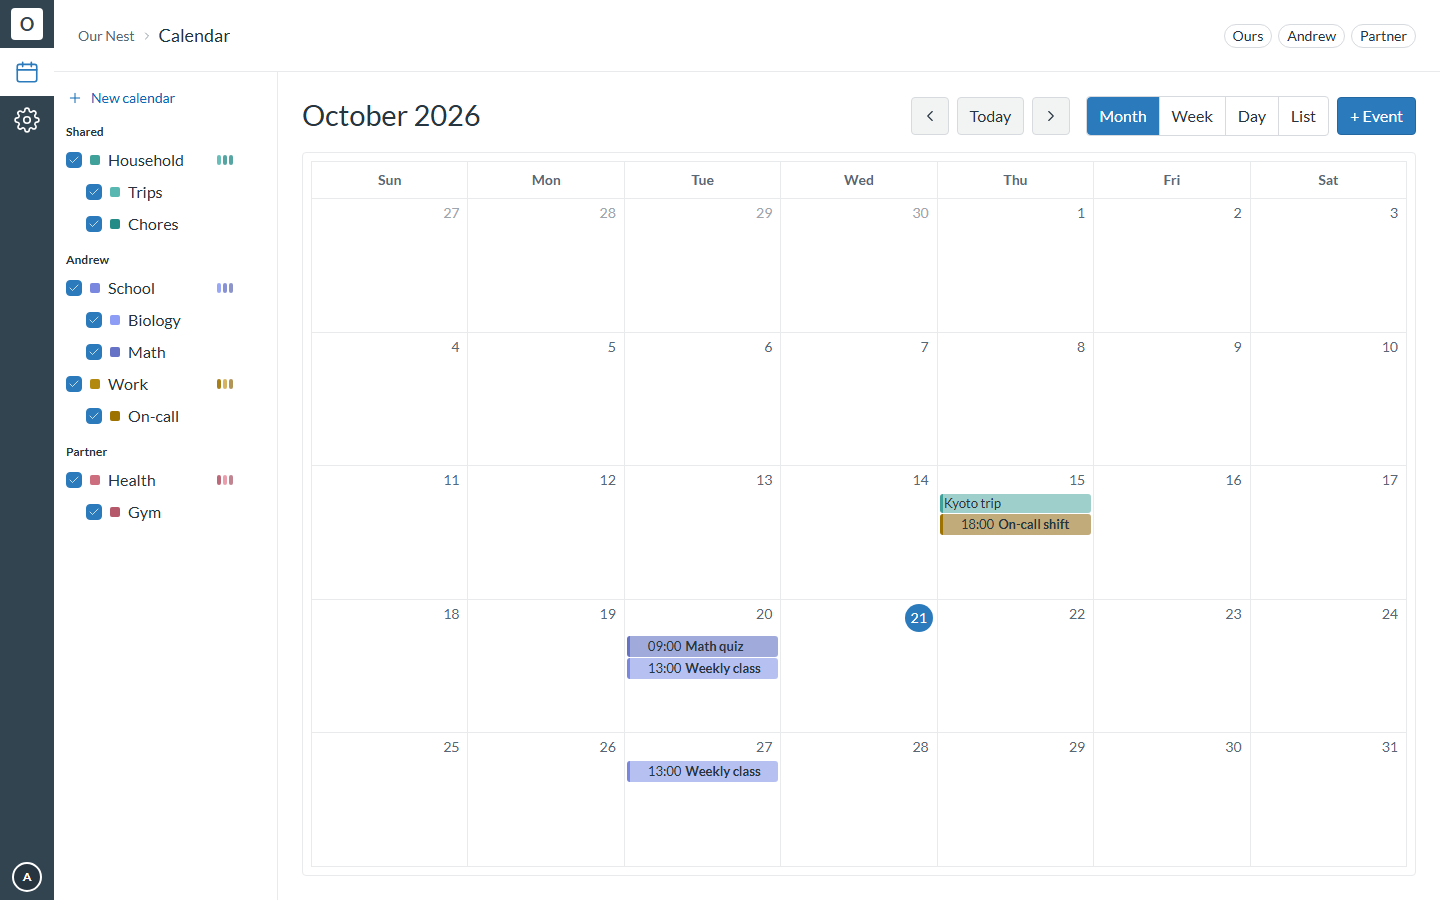
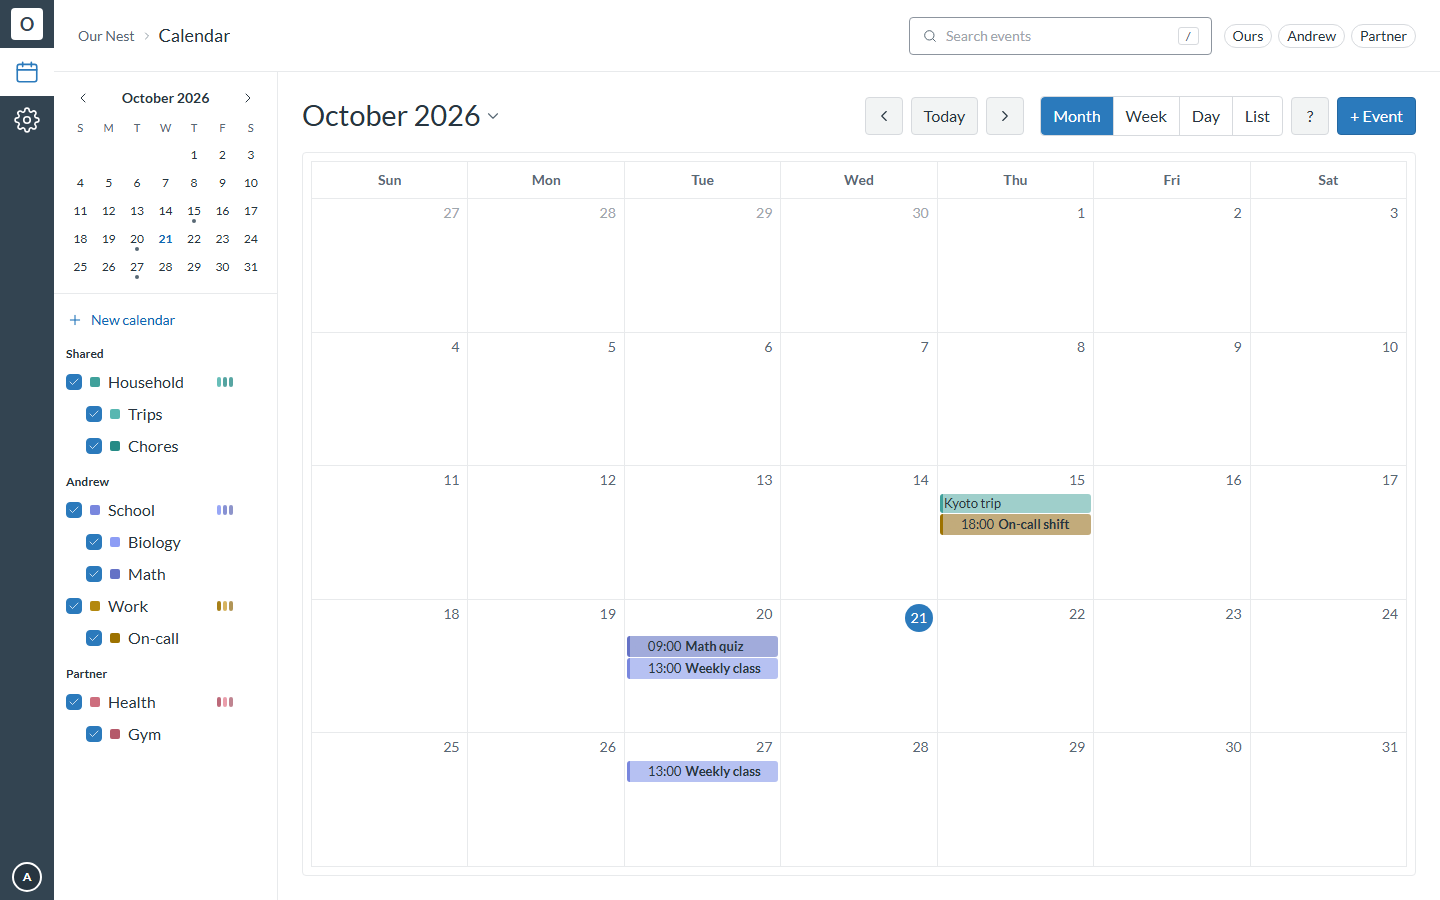
docs: v0.1.0 daily-driver parity release notes and screenshots
- README/CHANGELOG describe the unreleased v0.1.0 build: details popover,
  quick create, undo, search, preferences, shortcuts, mini-month, remembered
  view and grid polish. No release is claimed (nothing has shipped).
- Refresh docs/screenshots and add quick-create, event-details and search captures.
- Fix preference mutation races: apply the canonical PATCH response instead of
  refetching, and ignore out-of-order responses.
- Make e2e specs independent of suite order (self-seeded probe event for the
  Delete/undo shortcut test, Kyoto search target, hydration waits).
- Verification: lint/typecheck green; Vitest 23 files / 124 tests; full
  Playwright 95 passed (screenshot spec skipped by default); screenshot capture
  7 passed; viewport matrix and keyboard flows covered by the e2e suites.

diff --git a/lib/query/preferences.ts b/lib/query/preferences.ts
@@ -1,6 +1,7 @@
 "use client";
 
 import { useMutation, useQuery, useQueryClient } from "@tanstack/react-query";
+import { useRef } from "react";
 import type { UserPreferences } from "@/lib/services/preferences";
 
 interface ApiErrorBody {
@@ -33,6 +34,10 @@ export function usePreferences(initialData: UserPreferences): UserPreferences {
 
 export function useUpdatePreferences() {
   const queryClient = useQueryClient();
+  // Rapid toggles overlap: responses can arrive out of order, and only the most
+  // recently issued patch may overwrite the optimistic cache.
+  const latestIssued = useRef(0);
+
   return useMutation({
     mutationFn: (patch: Partial<UserPreferences>) =>
       requestJson<{ preferences: UserPreferences }>("/api/settings/preferences", {
@@ -41,20 +46,26 @@ export function useUpdatePreferences() {
         body: JSON.stringify(patch),
       }),
     onMutate: async (patch) => {
+      latestIssued.current += 1;
+      const sequence = latestIssued.current;
       await queryClient.cancelQueries({ queryKey: preferencesKey });
       const previous = queryClient.getQueryData<UserPreferences>(preferencesKey);
       if (previous) {
         queryClient.setQueryData<UserPreferences>(preferencesKey, { ...previous, ...patch });
       }
-      return { previous };
+      return { previous, sequence };
     },
     onError: (_error, _patch, context) => {
       if (context?.previous) {
         queryClient.setQueryData(preferencesKey, context.previous);
       }
     },
-    onSettled: () => {
-      void queryClient.invalidateQueries({ queryKey: preferencesKey });
+    // The response is the canonical row; applying it instead of refetching keeps
+    // a rapid second toggle from being overwritten by an in-flight GET.
+    onSuccess: (payload, _patch, context) => {
+      if (context?.sequence === latestIssued.current) {
+        queryClient.setQueryData<UserPreferences>(preferencesKey, payload.preferences);
+      }
     },
   });
 }

diff --git a/tests/e2e/preferences.spec.ts b/tests/e2e/preferences.spec.ts
@@ -23,6 +23,7 @@ test.afterEach(async ({ page }) => {
 
 test("time format changes the grid and survives reload", async ({ page }) => {
   await page.goto("/settings#calendar");
+  await page.waitForLoadState("networkidle");
   await page.getByRole("button", { name: "12-hour" }).click();
   await expect(page.getByText(/preferences updated/i)).toBeVisible();
 
@@ -37,6 +38,7 @@ test("time format changes the grid and survives reload", async ({ page }) => {
 
 test("the default view select persists", async ({ page }) => {
   await page.goto("/settings#calendar");
+  await page.waitForLoadState("networkidle");
   await page.getByLabel("Default view").selectOption("timeGridWeek");
   await expect(page.getByText(/preferences updated/i)).toBeVisible();
 
@@ -46,6 +48,7 @@ test("the default view select persists", async ({ page }) => {
 
 test("the calendar card is reachable from the settings sub-nav", async ({ page }) => {
   await page.goto("/settings");
+  await page.waitForLoadState("networkidle");
   const nav = page.getByRole("navigation", { name: "Settings sections" });
   await nav.getByRole("link", { name: "Calendar" }).click();
   await expect(page.getByRole("heading", { name: "Calendar" })).toBeVisible();
@@ -54,8 +57,12 @@ test("the calendar card is reachable from the settings sub-nav", async ({ page }
 
 test("week numbers and shortcuts toggles persist", async ({ page }) => {
   await page.goto("/settings#calendar");
+  // Wait for hydration before driving controlled Radix checkboxes.
+  await page.waitForLoadState("networkidle");
   await page.getByLabel("Week numbers").check();
+  await expect(page.getByLabel("Week numbers")).toBeChecked();
   await page.getByLabel("Keyboard shortcuts").uncheck();
+  await expect(page.getByLabel("Keyboard shortcuts")).not.toBeChecked();
 
   await page.reload();
   await expect(page.getByLabel("Week numbers")).toBeChecked();

diff --git a/tests/e2e/shortcuts.spec.ts b/tests/e2e/shortcuts.spec.ts
@@ -46,22 +46,39 @@ test("the toolbar button opens the shortcut sheet too", async ({ page }) => {
 });
 
 test("z is undo, but Delete removes the selected event", async ({ page }) => {
-  await page.getByText("Math quiz").click();
+  const start = new Date();
+  start.setHours(15, 0, 0, 0);
+  const created = await page.request.post("/api/events", {
+    data: {
+      calendarId: fixtures.calendars.math,
+      title: "Shortcut probe",
+      allDay: false,
+      startAt: start.getTime(),
+      endAt: start.getTime() + 60 * 60 * 1000,
+    },
+  });
+  expect(created.ok()).toBeTruthy();
+  await page.reload();
+  await page.getByRole("button", { name: "List", exact: true }).click();
+
+  await page.getByText("Shortcut probe").click();
   await page.keyboard.press("Escape");
   await page.keyboard.press("Delete");
-  await expect(page.getByText("Math quiz")).toHaveCount(0);
+  await expect(page.getByText("Shortcut probe")).toHaveCount(0);
 
   // The optimistic removal lands before the mutation's undo entry exists.
   await expect(
     page.locator("[data-sonner-toast]", { hasText: "Event deleted" }),
   ).toBeVisible();
   await page.keyboard.press("z");
-  await expect(page.getByText("Math quiz")).toBeVisible();
+  await expect(page.getByText("Shortcut probe")).toBeVisible();
 });
 
 test("the settings toggle disables single-key shortcuts", async ({ page }) => {
   await page.goto("/settings#calendar");
+  await page.waitForLoadState("networkidle");
   await page.getByRole("checkbox", { name: /Keyboard shortcuts/ }).uncheck();
+  await expect(page.getByRole("checkbox", { name: /Keyboard shortcuts/ })).not.toBeChecked();
 
   await page.goto("/");
   await page.keyboard.press("w");

diff --git a/tests/e2e/screenshot.spec.ts b/tests/e2e/screenshot.spec.ts
@@ -35,6 +35,36 @@ test.describe("desktop screenshots", () => {
     await page.screenshot({ path: "docs/screenshots/calendar-desktop.png" });
   });
 
+  test("quick create bubble", async ({ page }) => {
+    await signIn(page, ANDREW, fixtures.password);
+    const now = new Date();
+    const day = `${now.getFullYear()}-${String(now.getMonth() + 1).padStart(2, "0")}-${String(
+      Math.min(now.getDate() + 3, 28),
+    ).padStart(2, "0")}`;
+    await page.locator(`[data-date="${day}"]`).click({ position: { x: 8, y: 8 } });
+    await expect(page.getByLabel("Title")).toBeFocused();
+    await page.getByLabel("Title").fill("Dinner with Sam");
+    await settle(page);
+    await page.screenshot({ path: "docs/screenshots/quick-create.png" });
+    await page.keyboard.press("Escape");
+  });
+
+  test("event details", async ({ page }) => {
+    await signIn(page, ANDREW, fixtures.password);
+    await page.getByText("Weekly class").first().click();
+    await expect(page.getByRole("dialog")).toBeVisible();
+    await settle(page);
+    await page.screenshot({ path: "docs/screenshots/event-details.png" });
+  });
+
+  test("search results", async ({ page }) => {
+    await signIn(page, ANDREW, fixtures.password);
+    await page.getByLabel("Search events").first().fill("kyo");
+    await expect(page.getByRole("option", { name: /Kyoto trip/ })).toBeVisible();
+    await settle(page);
+    await page.screenshot({ path: "docs/screenshots/search.png" });
+  });
+
   test("settings", async ({ page }) => {
     await signIn(page, ANDREW, fixtures.password);
     await page.goto("/settings");

diff --git a/tests/e2e/search.spec.ts b/tests/e2e/search.spec.ts
@@ -25,11 +25,11 @@ test("slash focuses search and Escape closes the results", async ({ page }) => {
   const search = page.getByLabel("Search events").first();
   await expect(search).toBeFocused();
 
-  await search.fill("math");
-  await expect(page.getByRole("option", { name: /Math quiz/ })).toBeVisible();
+  await search.fill("kyoto");
+  await expect(page.getByRole("option", { name: /Kyoto trip/ })).toBeVisible();
 
   await page.keyboard.press("Escape");
-  await expect(page.getByRole("option", { name: /Math quiz/ })).toHaveCount(0);
+  await expect(page.getByRole("option", { name: /Kyoto trip/ })).toHaveCount(0);
 });
 
 test("short query shows the hint, not an empty box", async ({ page }) => {

diff --git a/README.md b/README.md
@@ -11,15 +11,38 @@ language of Canvas LMS: a dark global rail, a breadcrumb bar, and a course-style
 navigation panel — Lato type, Canvas blue, and 3–6px radii throughout.
 
 The calendar borrows Google Calendar's model — several colour-coded calendars,
-per-calendar visibility, click-and-drag events — and adds a **two-level
-hierarchy**: sub-calendars render in shades of their parent's colour, so
-"School" reads as one family while "Math" and "Biology" stay distinguishable.
+per-calendar visibility, click-and-drag events, and the daily loops people
+already know: click a day to quick-create, click an event for details, `/` to
+search, `z` to undo — and adds a **two-level hierarchy**: sub-calendars render in
+shades of their parent's colour, so "School" reads as one family while "Math" and
+"Biology" stay distinguishable.
 
 One shared household, two accounts, no public sign-up. Everything is visible to
 both; a per-calendar **view-only** flag protects a calendar its owner would
 rather not have edited.
 
 ![Nailong Planner month view](docs/screenshots/calendar-desktop.png)
+
+<details>
+<summary>Quick create (day click, range drag or Shift+C)</summary>
+
+![Quick create bubble](docs/screenshots/quick-create.png)
+
+</details>
+
+<details>
+<summary>Event details</summary>
+
+![Event details popover](docs/screenshots/event-details.png)
+
+</details>
+
+<details>
+<summary>Search</summary>
+
+![Search results](docs/screenshots/search.png)
+
+</details>
 
 <details>
 <summary>Settings page</summary>
@@ -29,9 +52,9 @@ rather not have edited.
 </details>
 
 <details>
-<summary>Phone (month view)</summary>
+<summary>Phone (agenda view — the Auto default)</summary>
 
-![Nailong Planner phone month view](docs/screenshots/calendar-mobile.png)
+![Nailong Planner phone agenda view](docs/screenshots/calendar-mobile.png)
 
 </details>
 
@@ -48,6 +71,23 @@ rather not have edited.
 
 ## Features
 
+- **Google-Calendar-shaped daily loops** — a day/slot click, a range drag or
+  `Shift+C` opens a quick-create bubble (Enter saves, "More options" escalates to
+  the full editor); clicking an event opens anchored details with its repeat
+  summary, location link and duplicate action; `/` searches the whole household
+  and jumps the grid to the result.
+- **Undoable edits** — deletes, moves, resizes and creates render optimistically
+  and are undoable from the toast or with `z` / `Ctrl+Z`; a failed drag snaps
+  back.
+- **Per-user preferences** — 12/24-hour time, default view (`Auto` = agenda on
+  phones, month on desktop), week numbers, keyboard shortcuts and default event
+  calendar, applied immediately from Settings → Calendar and stored per user.
+- **Keyboard-first** — Google Calendar's keys (`c`, `Shift+C`, `/`, `t`, `g`,
+  `j`/`n`, `k`/`p`, `d`/`w`/`m`/`l`, `e`, `Delete`, `z`, `Ctrl/Cmd+Z`, `?`) with
+  a shortcut sheet, and no single-key shortcut fires while you are typing.
+- **Mini-month and date deep links** — a neutral-dot mini calendar in the
+  sidebar, a jump-to-date picker on the toolbar title, and `?date=`/`?event=`
+  links that open the matching month and event.
 - **Whole month at a glance** — the shell is pinned to the viewport, so the nav
   rail and breadcrumb never scroll away and the month grid always uses the
   height that is left. Week/day hours and long agendas scroll inside the
@@ -68,7 +108,8 @@ rather not have edited.
 
 - **Next.js 16** (App Router, TypeScript, standalone output), React 19, Tailwind CSS 4
 - **Canvas LMS design language** — Canvas colour, spacing and type tokens; **Lato** self-hosted from vendored woff2 files (SIL OFL 1.1, [`app/fonts/OFL.txt`](app/fonts/OFL.txt))
-- **FullCalendar 7.1.3** (pinned exact) with the RRULE plugin — drag, resize, recurring events, IANA timezones
+- **FullCalendar 7.1.3** (pinned exact) — drag, resize, week numbers, IANA
+  timezones — with recurrence expanded by [`rrule`](https://github.com/jkbrzt/rrule)
 - **SQLite** (better-sqlite3, WAL) + **Drizzle ORM** with committed SQL migrations
 - **Better Auth 1.7** — email + password, sign-up disabled, TOTP two-factor, DB-backed sessions
 - **TanStack Query** for client caching, **Zod** for validation
@@ -137,12 +178,15 @@ layer; SQL access is confined to `lib/services/*` to keep that change contained.
 
 - Design spec: [`docs/superpowers/specs/2026-10-19-nailong-planner-design.md`](docs/superpowers/specs/2026-10-19-nailong-planner-design.md)
 - Canvas redesign spec: [`docs/superpowers/specs/2026-10-20-canvas-ui-redesign-design.md`](docs/superpowers/specs/2026-10-20-canvas-ui-redesign-design.md)
+- UX parity design: [`docs/superpowers/specs/2026-10-21-calendar-ux-parity-design.md`](docs/superpowers/specs/2026-10-21-calendar-ux-parity-design.md)
+- UX parity implementation plan: [`docs/superpowers/plans/2026-10-21-ux-parity-v0.1.0.md`](docs/superpowers/plans/2026-10-21-ux-parity-v0.1.0.md)
 - Implementation plan: [`docs/superpowers/plans/2026-10-19-nailong-planner-v0.1.0.md`](docs/superpowers/plans/2026-10-19-nailong-planner-v0.1.0.md)
 - Operations, backups, recovery: [`docs/OPERATIONS.md`](docs/OPERATIONS.md)
 
 ## Out of scope for v0.1.0
 
-Reminders and notifications · Google Calendar sync / ICS · per-occurrence
+Reminders and notifications · Google Calendar sync / ICS · a 30-day trash bin
+(undo is session-only in v0.1.0) · custom repeat rules and per-occurrence
 overrides · dark mode · PWA · tasks, notes and other modules · more than two
 users.
 

diff --git a/CHANGELOG.md b/CHANGELOG.md
@@ -4,20 +4,57 @@ All notable changes to this project are documented here. The format is based on
 [Keep a Changelog](https://keepachangelog.com/en/1.1.0/), and this project
 adheres to [Semantic Versioning](https://semver.org/spec/v2.0.0.html).
 
-## [Unreleased]
+## [Unreleased] — v0.1.0 in development
 
-## [0.1.0] - 2026-10-21
+> **Nothing has shipped yet.** The current build is **v0.1.0, still in
+> development**; the entries below describe what that build contains so far.
 
-First public release.
+### Added — daily-driver parity
 
-### Added
+- **Anchored event details** — one click opens a popover with the repeat summary,
+  a Maps link for the location, clamped notes with "Show more", and
+  Edit / Duplicate / Close / Delete actions. Repeating occurrences show the
+  clicked occurrence's own date. Focus moves to Edit and returns to the event
+  block on close; phones get the same body in a dialog.
+- **Google-Calendar-style quick create** — click a day or time slot, drag a
+  range, or press `Shift+C`; type a title, pick a calendar, press Enter. "More
+  options" carries the draft into the full editor. `+ Event` and `c` still open
+  the full editor.
+- **Session undo** — deleting, moving/resizing and creating show a 10-second
+  `Undo` toast; `z` and `Ctrl/Cmd+Z` undo the last change even after the toast is
+  gone, unless you are typing in a text field. A failed drag snaps back.
+- **Household-wide search** — `/` focuses a header search over event titles,
+  notes and locations with ranked, highlighted results grouped by month. Picking
+  a result jumps the grid to the event's date and opens its details, even when
+  that month is not loaded.
+- **Per-user preferences** — time format (12/24-hour), default view (`Auto`
+  resolves to agenda on phones and month on desktop), week numbers, keyboard
+  shortcuts toggle, and default event calendar. The Settings → Calendar card
+  applies each change immediately and stores it in the database.
+- **Keyboard shortcuts** — `c`, `Shift+C`, `/`, `t`, `g`, `j`/`n`, `k`/`p`,
+  `d`/`w`/`m`/`l`, `e`, `Delete`/`Backspace`, `z`, `Ctrl/Cmd+Z`, `Esc`, plus a
+  `?` shortcut sheet. Single-key shortcuts never fire while typing.
+- **Mini-month and jump-to-date** — a neutral-dot mini calendar in the sidebar
+  navigates by date, the toolbar title opens a date picker, and `?date=` deep
+  links open any month.
+- **Remembered view and mobile first run** — the last view per device survives a
+  reload; `Auto` lands phones on the agenda with a floating **+ Event** button.
+- **Optimistic mutations** — create, edit, move and delete render instantly and
+  roll back on a server error.
+- **Nested calendar hierarchy** — root calendars own a hue family, sub-calendars
+  take a new shade of it, so "School" reads as one family while "Math" and
+  "Biology" stay distinguishable.
+- **Two-person permissions** — a per-calendar view-only flag enforced
+  server-side on every write, with sub-calendars inheriting the protection.
+- **Private by design** — sign-up disabled, exactly two accounts provisioned,
+  TOTP two-factor available, DB-backed sessions.
+- **Small footprint** — SQLite in WAL mode, one Docker image, one volume.
+
+### Added — foundation (initial build)
 
 - Two-person household calendar on Next.js 16 (App Router), React 19 and
   Tailwind CSS 4, wearing a Canvas-LMS-inspired shell: dark global rail,
   breadcrumb bar and course-style calendar panel.
-- Nested calendar hierarchy: root calendars own a hue family, sub-calendars take
-  a new shade of it, so "School" reads as one family while "Math" and "Biology"
-  stay distinguishable.
 - FullCalendar 7 month / week / day / list views with drag-to-create,
   drag-to-move, resize, recurring events (RFC 5545 RRULE + EXDATE) and IANA
   timezone handling.
@@ -30,6 +67,14 @@ First public release.
 - Unit/integration suites (Vitest), end-to-end suites (Playwright), and CI
   (lint, typecheck, tests, build, E2E, CodeQL, Dependabot).
 
+### Changed
+
+- Grid polish: 15-minute drag snap, 30-minute slot lines, week/day views open
+  around the current time, `+N more` is a real touch target, overlapping events
+  sit side by side, and short landscape viewports keep the whole month visible.
+- Deleting a calendar asks in a Canvas dialog instead of `window.confirm`.
+- Phones now default to the agenda view (`Auto`); the month grid is one tap away.
+
 ### Fixed
 
 - The page no longer scrolls: the shell is pinned to the viewport (`h-dvh`), so
@@ -37,10 +82,9 @@ First public release.
   height (`height="100%"` + `expandRows`). The whole month is visible at once on
   desktop, tablet, and phone sizes; week/day/list views scroll inside the
   calendar panel.
-- Phones now open on the month grid instead of a taller agenda that had to
-  overflow the viewport.
 - Dialogs are capped to the viewport (`90dvh`) and scroll internally.
 - Neutral, non-partner-centric copy for shared and view-only calendars.
-
-[Unreleased]: https://github.com/andrewhmir/nailong-planner/compare/v0.1.0...HEAD
-[0.1.0]: https://github.com/andrewhmir/nailong-planner/releases/tag/v0.1.0
+- Repeating-event details now show the clicked occurrence's date instead of the
+  series start.
+- A failed drag or resize reverts instead of leaving the block in the wrong
+  place.
